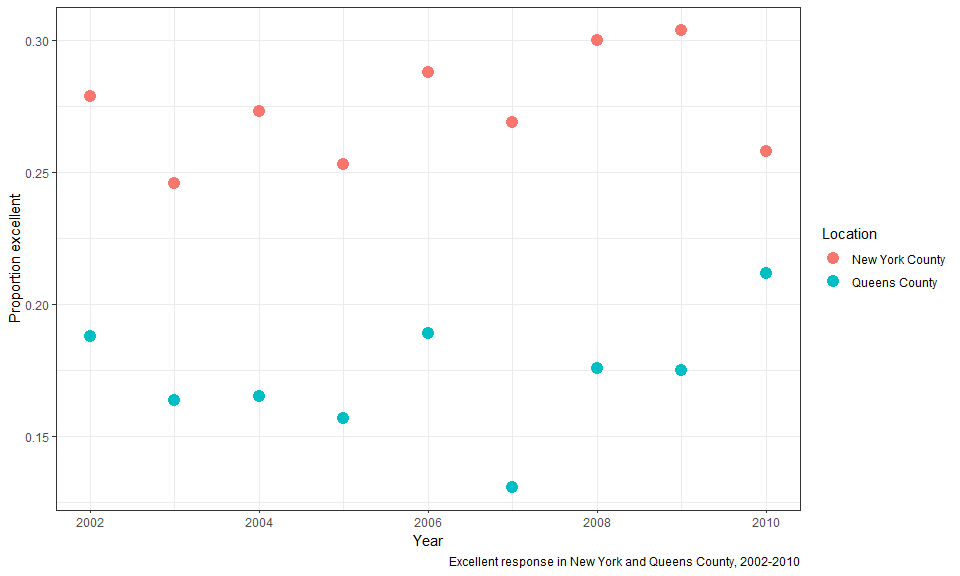
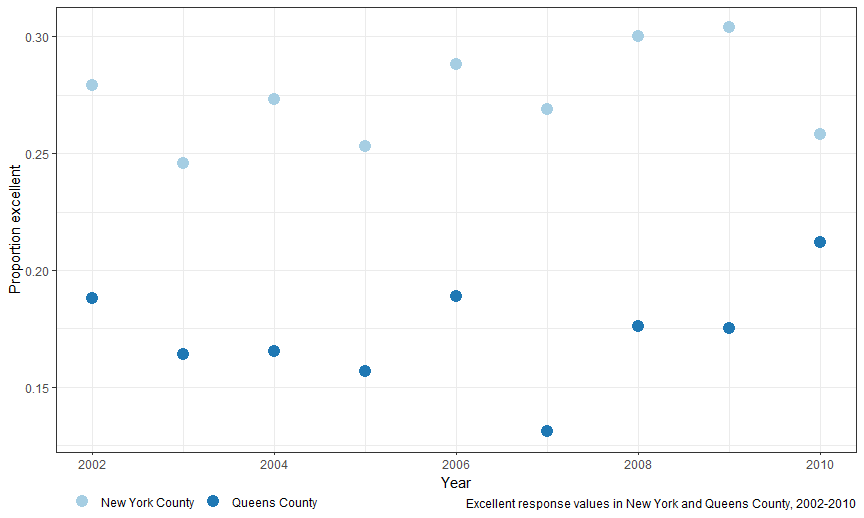
edited data descriptions to be more specific, moved legend to bottom left for scatter plot/changed up colors, revised maximum observation calcultion for brfss data to be easier to use inline and follow

diff --git a/p8105_hw2_ntw2117.md b/p8105_hw2_ntw2117.md
@@ -23,11 +23,11 @@ nyc_transit_data <- nyc_transit_data %>%
 nyc_transit_data$entry <- ifelse(nyc_transit_data$entry == "YES", TRUE, FALSE)
 ```
 
-The NYC transit dataset contains information about exits and entries for each subway station in NYC. Important information includes the subway line, the subway station, the trains that stop at the station, and whether the entrance or exit is ADA compliant. My approach to cleaning the data was first cleaning the names using `clean_names()` in the Janitor package. I then used a pipe to select the important columns. I recognized that line, station name, latitude/longitude, routes served, and entry already occur in order in the original dataset and only needed to represent these columns as a range. I then used the `ifelse()` function to convert the entry column to a logical variable. By using the pipe operator, I was able to do all tasks in only two code blocks. The dimensions of the dataset are 1868 rows by 19 columns. These data are not tidy. Tidy data is defined as being normalized to the 3rd normal form. This requires columns to only be variables and not pieces of information. As such, the route columns would need to be collapsed into a variable.
+The NYC transit dataset contains information about exits and entries for each subway station in NYC. Important information includes the subway line, the subway station, the trains that stop at the station, and whether the entrance or exit is ADA compliant. My approach to cleaning the data was first cleaning the names using `clean_names()` in the Janitor package. I then used a pipe to select the important columns. I recognized that line, station name, latitude/longitude, routes served, and entry already occur in order in the original dataset and I only needed to represent these columns as a range. I then used the `ifelse()` function to convert the entry column to a logical variable. By using the pipe operator, I was able to do all tasks in only two code blocks. The dimensions of the dataset are 1868 rows by 19 columns. These data are not tidy. Tidy data is defined as being normalized to the 3rd normal form. This requires columns to only be variables and not pieces of information. As such, the route columns would need to be collapsed into a distinct variable.
 
 -   There are 465 distinct stations.
 -   84 stations are ADA compliant.
--   0.0369 of station entrances / exits without vending allow entry
+-   0.0369 of station entrances / exits without vending allow entry.
 
 #### Tidying transit data
 
@@ -90,7 +90,7 @@ precip_data <- precip_16_data %>%
                mutate(month = month.name[month])
 ```
 
-The dataset `trash_wheel_data` has 215 observations and contains dumpster specific trash content information for the Mr. Trash Wheel in Baltimore from 2014 to 2017. The median number of sports balls in a dumpster in 2017 was 8. The dataset `precip_data` has 20 observations and contains information on the amount of precipitation (in inches) during 2016 and 2017 by month in Baltimore. In 2017, the total precipitation based on available data was 29.93 inches.
+The dataset `trash_wheel_data` has 215 observations and contains dumpster specific trash content information for the Mr. Trash Wheel in Baltimore from 2014 to 2017. Such variables include the weight in tons collected in a dumpster during a given month, the number of plastic bottles collected in a dumpster, the number of cigarette butts, the number of sports balls collected, etc. The median number of sports balls in a dumpster in 2017 was 8. The dataset `precip_data` has 20 observations and contains information on the amount of precipitation (in inches) during 2016 and 2017 by month in Baltimore. In 2017, the total precipitation, based on available data was, 29.93 inches.
 
 Problem 3
 ---------
@@ -117,11 +117,13 @@ brfss_data <- brfss_data %>%
 #### Answers to questions
 
 ``` r
-max_record <- count(brfss_data, state) %>%
-  filter(n == max(n))
+max_obs_brfss <- brfss_data %>% 
+  count(state) %>%
+  filter(n == max(n)) %>%
+  select(n)
 ```
 
--   There are 404 distinct locations in the dataset. Every state, and the District of Columbia are represented. The state with the most observations is NJ with 146 observations.
+-   There are 404 distinct locations in the dataset. Every state, and the District of Columbia are represented. The state with the most observations is New Jersey with 146 observations.
 
 -   In 2002, the median excellent response value was 23.6.
 
@@ -146,14 +148,18 @@ brfss_data %>%
   mutate(prop_excellent = excellent / (excellent + fair + good + poor + very_good)) %>% 
   ggplot(aes(x = year, y = prop_excellent, color = county)) + 
   geom_point(size = 4) + 
-  scale_color_discrete(
-    name = "Location", 
-    labels = c("New York County", "Queens County")
+  scale_color_brewer(
+    name = "", 
+    labels = c("New York County", "Queens County"), 
+    palette = "Paired"
   ) +
   labs(x = "Year", 
        y = "Proportion excellent", 
-       caption = "Excellent response in New York and Queens County, 2002-2010") + 
-  theme_bw()
+       caption = "Excellent response values in New York and Queens County, 2002-2010") + 
+  theme_bw() + 
+  theme(legend.direction = "horizontal",
+        legend.position = c(0, 0), 
+        legend.justification = c(0, 1.8))
 ```
 
 <img src="p8105_hw2_ntw2117_files/figure-markdown_github/scatter plot-1.png" width="90%" style="display: block; margin: auto;" />
